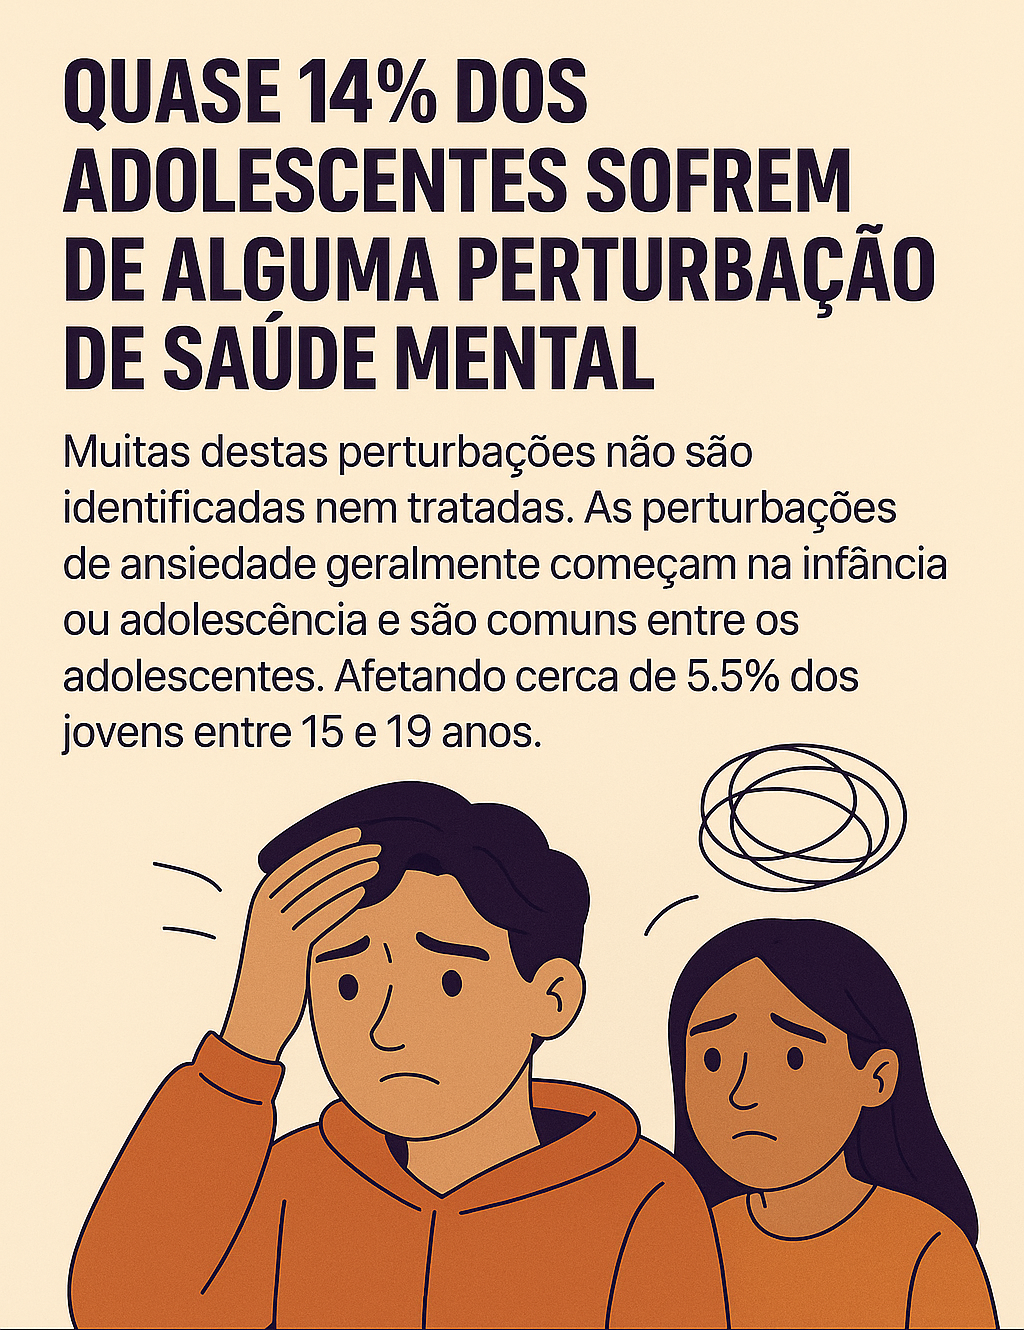
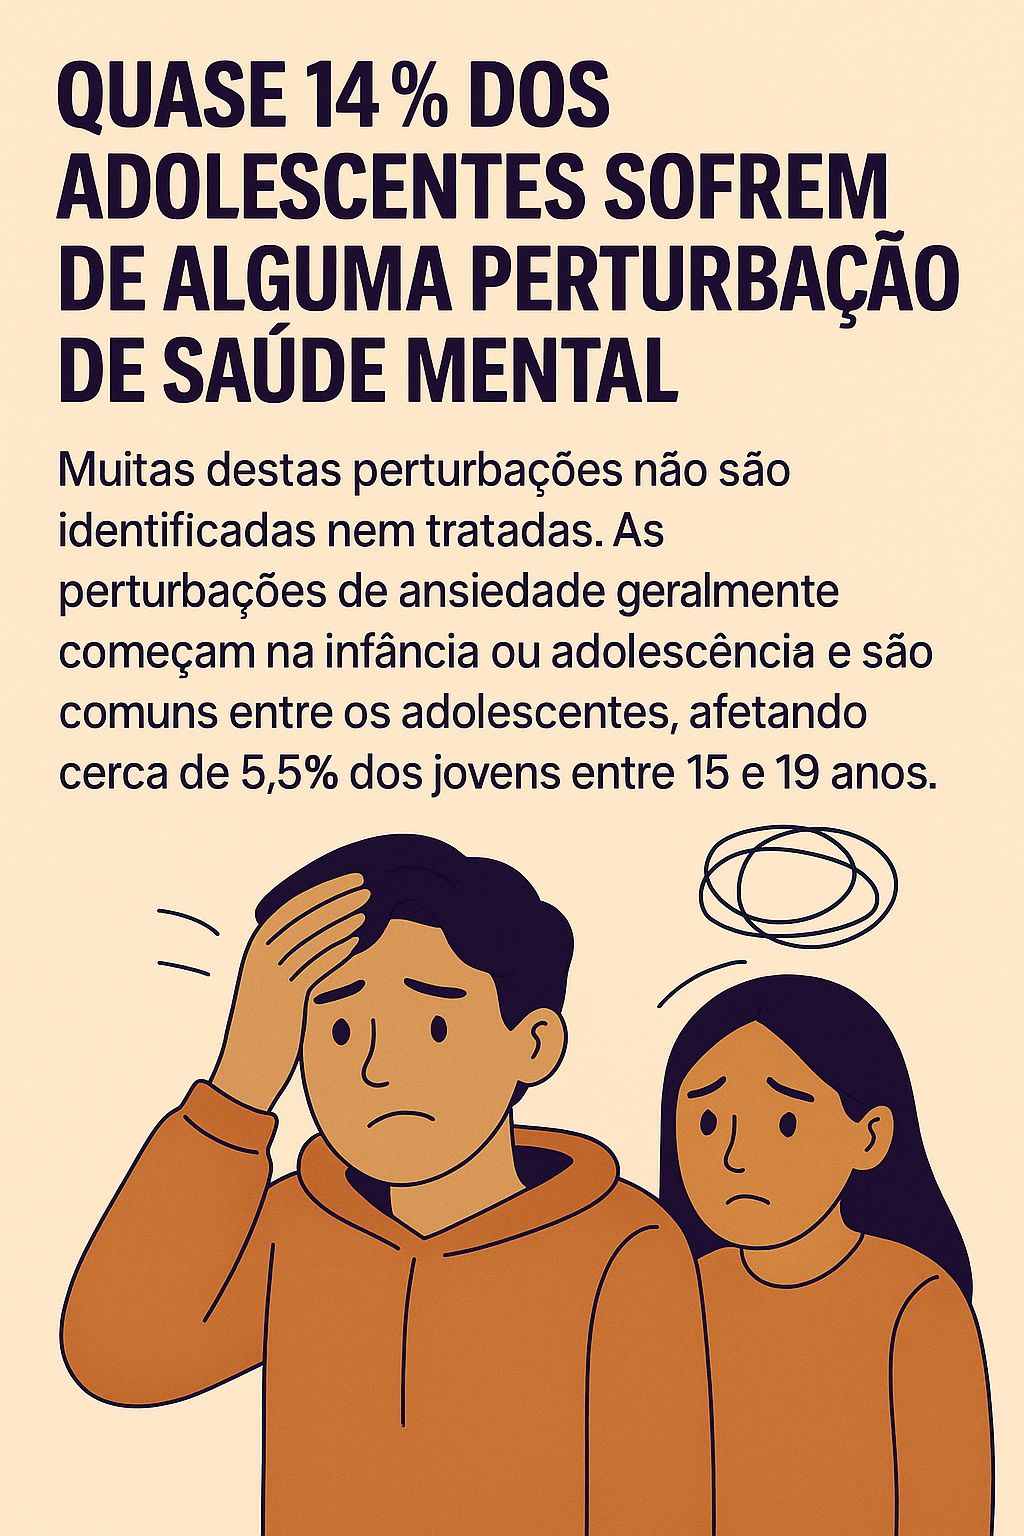
Alteracao das atividades do modulo 1

diff --git a/src/components/atividades/modulo1/ansiedadeSemFiltros.js b/src/components/atividades/modulo1/ansiedadeSemFiltros.js
@@ -47,18 +47,18 @@ const AnsiedadeSemFiltros = () => {
   };
 
   const descricoesImagem = {
-    1: "Quase 14% dos adolescentes sofrem de alguma perturbação de saúde mental. Muitas destas perturbações não são identificadas nem tratadas. As perturbações de ansiedade geralmente começam na infância ou adolescência e são comuns entre os adolescentes. Afetando cerca de 5.5% dos jovens entre 15 e 19 anos.",
-    2: "Ansiedade na adolecência. Ter ansiedade na adolescência pode aumentar a probabilidade de continuar a sentir ansiedade. na vida adulta, além de outras dificultades, como o consumo de álcool ou drogas a a depressão. Também pode afetar a tua saúde, o bem-estar e o desempenho escolar. Por isso, é importante reconhecer os sinais de ansiedade e procurar ajuda o mais cedo possivel, para prevenir consequências no futuro.",
+    1: "Quase 14% dos adolescentes sofrem de alguma perturbação de saúde mental. Muitas destas perturbações não são identificadas nem tratadas. As perturbações de ansiedade geralmente começam na infância ou adolescência e são comuns entre os adolescentes, afetando cerca de 5.5% dos jovens entre 15 e 19 anos.",
+    2: "Ansiedade na adolecência. Sentir ansiedade na adolescência pode aumentar a probabilidade de continuar a sentir ansiedade na vida adulta, além de outras dificultades, como o consumo de álcool ou drogas a a depressão. Também pode afetar a tua saúde, o bem-estar e o desempenho escolar. Por isso, é importante reconhecer os sinais de ansiedade e procurar ajuda o mais cedo possivel.",
     3: "Muitos adolescentes ainda tem alguma dificuldade em pedir ajuda. Uma das razões para isso é que nem sempre é fácil perceber que aquilo que se está a sentir pode ser um problema de saúde mental. Por vezes, falta informação e, por isso, alguns adolescentes não reconhecem a gravidade da situação ou nem identificam o que sentem como um problema de saúde mental. Além disso, é comum muitos preferirem lidar com as dificuldades sozinhos, em vez de pedirem ajuda a alguém.",
     4: "Quando a ansiedade se torna um problema. A ansiedade faz parte das nossas vidas e é útil, ajudando-nos a preparar para desafios ou situações novas. Mas quando é demasiado intensa, prolongada no tempo e interfere com o dia a dia, pode tratar-se de uma perturbação de ansiedade.",
-    5: "As perturbações de ansiedade. Fobia específica. Medo, ansiedade ou evitamento persistente perante certos objetos ou situações (como animais, alturas, agulhas...). O medo é desproporcional e pode levar a evitar essas situações.",
-    6: "As perturbações de ansiedade. Perturbação de ansiedade social. Medo intenso de situações sociais ou de desempenho, como falar em público ou interagir com desconhecidos, por receio de ser julgado.",
-    7: "As perturbações de ansiedade. Perturbação de pânico. Ataques de pânico inesperados e recorrentes - episódios de medo muito intenso com sintomas como batimentos cardíacos acelerados, falta de ar, tonturas.",
-    8: "As perturbações de ansiedade. Perturbação de ansiedade generalisada. Ansiedade e preocupação excessivas, persistentes e difíceis de controlar em vários contextos (como escola, saúde, família), mesmo quando não há razão clara.",
-    9: "As perturbações de ansiedade. Perturbação de ansiedade de separação. Medo ou ansiedade excessivos perante a separação de figuras importantes (como os pais), que não corresponde à idade ou fase de desenvolvimento.",
-    10:"As perturbações de ansiedade. Agrofobia. Medo ou ansiedade de estar em locais ou situações das quais pode ser difícil sair ou onde possa não haver ajuda em caso de mal-estar (como transportes públicos, espaços abertos ou multidões).",
-    11:"As perturbações de ansiedade. Perturbação obsessivo-compulsiva. Presença de pensamentos ou imagens indesejadas e repetitivas e/ou comportamentos repetitivos que a pessoa sente que tem de fazer para aliviar a ansiedade.",
-    12:"As perturbações de ansiedade. Perturbação de stress pós-traumático.Ansiedade intensa depois de viver ou presenciar um acontecimento traumático. Pode incluir reviver o trauma, evitar tudo o que o relembre, sentir-se em constante alerta ou alterações de humor."
+    5: "As perturbações de ansiedade. Fobia específica: Medo, ansiedade ou evitamento persistente perante certos objetos ou situações (como animais, alturas, agulhas...). O medo é desproporcional e pode levar a evitar essas situações.",
+    6: "As perturbações de ansiedade. Perturbação de ansiedade social: Medo intenso e persistente de situações sociais ou de desempenho, como falar em público ou interagir com desconhecidos, por receio de ser julgado.",
+    7: "As perturbações de ansiedade. Perturbação de pânico: Ataques de pânico inesperados e recorrentes - episódios de medo muito intenso com sintomas como batimentos cardíacos acelerados, falta de ar, tonturas.",
+    8: "As perturbações de ansiedade. Perturbação de ansiedade generalisada: Ansiedade e preocupação excessivas, persistentes e difíceis de controlar em vários contextos (como escola, saúde, família), mesmo quando não há razão clara.",
+    9: "As perturbações de ansiedade. Perturbação de ansiedade de separação: Medo ou ansiedade excessivos perante a separação de figuras importantes (como os pais), que não corresponde à idade ou fase de desenvolvimento.",
+    10:"As perturbações de ansiedade. Agrofobia: Medo ou ansiedade de estar em locais ou situações das quais pode ser difícil sair ou onde possa não haver ajuda em caso de mal-estar (como transportes públicos, espaços abertos ou multidões).",
+    11:"As perturbações de ansiedade. Perturbação obsessivo-compulsiva: Presença de pensamentos ou imagens indesejadas e repetitivas e/ou comportamentos repetitivos que a pessoa sente que tem de fazer para aliviar a ansiedade.",
+    12:"As perturbações de ansiedade. Perturbação de stress pós-traumático: Ansiedade intensa depois de viver ou presenciar um acontecimento traumático. Pode incluir reviver o trauma, evitar tudo o que o relembre, sentir-se em constante alerta ou alterações de humor."
   };
 
   return (
@@ -85,20 +85,19 @@ const AnsiedadeSemFiltros = () => {
 
             {/* INTRODUÇÃO */}
             {pagina === 0 && (
-              <div className="text-start py-4">
+              <div className="text-center">
                 <h2 className="fw-bold mb-4" style={{ color: "#234970" }}>
                   {atividade?.titulo || "Ansiedade: Aliada ou Empecilho?"}
                 </h2>
                 <div className="row">
                   <div className="col-md-12">
                     <p className="lead">
-                      <strong>Sê muito bem-vindo ou bem-vinda ao Ansiedade Sem Filtros.</strong><br /><br />
+                      <strong>Sê muito bem-vindo/a ao Ansiedade Sem Filtros.</strong><br /><br />
                       Nesta <strong>atividade</strong>, vais ver uma <strong>sequência de imagens</strong> com informações
-                      sobre a <strong>ansiedade na adolescência</strong> — como aparece, o <strong>impacto</strong> que pode ter e porque
+                      sobre a <strong>ansiedade na adolescência</strong> — como aparece, o impacto que pode ter e porque
                       é tão importante falarmos sobre isto.<br /><br />
-                      Imagina que estás a fazer <strong>scroll no Instagram</strong> e deste de caras com um post sobre este tema. Lê cada imagem com <strong>atenção</strong> e, no final, reage com um <strong>hashtag</strong> que mostre o que sentiste ao ver aquela informação.<br />
-                      Podes escrever <strong>qualquer hashtag</strong> — algo que sintas, penses ou te venha à cabeça naquele momento.<br /><br />
-                      O <strong>objetivo</strong> é parares um instante e <strong>refletires</strong> sobre o que estás a ver e como isso te <strong>faz sentir</strong>.
+                      Imagina que estás a fazer <strong>scroll no Instagram</strong> e deste de caras com um post sobre este tema. Lê cada imagem com <strong>atenção</strong> e escrever <strong>um hashtag</strong> sobre a tua opinião acerca dessa informação.<br /><br />
+                      O <strong>objetivo</strong> é parares um instante e <strong>refletires</strong> sobre o que estás a ler e como isso te <strong>faz sentir</strong>.
                     </p>
                     <div className="text-center">
                       <button
@@ -118,8 +117,9 @@ const AnsiedadeSemFiltros = () => {
             {/* 12 IMAGENS COM HASHTAG INPUTS */}
             {pagina > 0 && pagina <= 12 && (
               <>
+               <div className="text-center"></div>
                 <h4 className="fw-bold mb-3" style={{ color: "#234970" }}>
-                  Imagem {pagina} de 12
+                  Lê cada imagem com atenção e escrever um hashtag sobre a tua opinião acerca dessa informação.
                 </h4>
                 <div className="text-center mb-4">
                   <div className="mb-3">
@@ -128,11 +128,7 @@ const AnsiedadeSemFiltros = () => {
                       alt={`Imagem ${pagina} sobre ansiedade`} // breve
                       aria-describedby={`descricao-imagem-${pagina}`}
                       className="img-fluid rounded"
-                      style={{
-                        maxWidth: "100%",
-                        maxHeight: "400px",
-                        objectFit: "contain"
-                      }}
+                      style={{ maxWidth: "100%", objectFit: "contain" }}
                       onError={(e) => {
                         e.target.style.display = 'none';
                         e.target.nextSibling.style.display = 'flex';
@@ -165,7 +161,7 @@ const AnsiedadeSemFiltros = () => {
                         border: '1px solid #99CBC8',
                         borderLeft: 'none'
                       }}
-                      placeholder="hashtag"
+                      placeholder="Escreve aqui o # para esta imagem"
                       value={hashtags[pagina - 1]}
                       onChange={(e) => handleHashtagChange(pagina - 1, e.target.value)}
                       onKeyDown={(e) => {
@@ -198,9 +194,9 @@ const AnsiedadeSemFiltros = () => {
                   <button
                     className="custom-btn-turquoise"
                     onClick={avancarPagina}
-                    aria-label={pagina === 12 ? "Ver reflexão final" : "Avançar para a próxima imagem"}
+                    aria-label={pagina === 12 ? "Conclusão" : "Avançar para a próxima imagem"}
                   >
-                    {pagina === 12 ? "Ver reflexão" : "Próximo"}
+                    {pagina === 12 ? "Conclusão" : "Próximo"}
                     <i className="bi bi-arrow-right ms-2" aria-hidden="true"></i>
                   </button>
                 </div>
@@ -210,20 +206,20 @@ const AnsiedadeSemFiltros = () => {
             {/* CONCLUSÃO */}
             {pagina === 13 && (
               <>
+               <div className="text-center"></div>
                 <h4 className="fw-bold mb-4" style={{ color: "#234970" }}>
                   Conclusão da Atividade
                 </h4>
                 <p className="lead">
-                  Agora que refletiste sobre as imagens e reagiste com <strong>hashtags</strong>, percebeste que a <strong>ansiedade</strong> não é algo <strong>isolado</strong>. Pelo
-                  contrário, afeta muitos <strong>jovens</strong> e pode, por vezes, ser um <strong>problema maior</strong> do que parece.<br /><br />
-                  Ao longo das imagens, <strong>exploraste</strong> como a ansiedade pode <strong>surgir</strong>, como ela pode <strong>persistir</strong> ao longo do
-                  tempo e os <strong>desafios</strong> que traz a muitos adolescentes.<br /><br />
-                  Ao mesmo tempo, <strong>aprendeste</strong> que a ansiedade não é um problema que deva ser <strong>ignorado</strong>, mas sim <strong>reconhecido</strong> e <strong>cuidado</strong>,
-                  para evitar consequências mais graves no futuro.<br /><br />
-                  A informação que partilhaste através dos hashtags ajuda-te a entender e expressar as diferentes <strong>emoções</strong> que sentiste ao aprender sobre as diversas
-                  formas de ansiedade e como elas afetam o nosso <strong>bem-estar</strong>, a nossa <strong>saúde mental</strong> e o nosso <strong>futuro</strong>.<br /><br />
-                  Lembra-te que <strong>falar</strong> sobre isso é <strong>fundamental</strong> para lidar com os desafios da saúde mental.
-                </p>
+                 Agora que refletiste sobre as imagens, percebeste que a <strong>ansiedade</strong> não é algo <strong>que acontece apenas a alguns</strong>, mas <strong>afeta muitos jovens</strong> e pode ser <strong>mais intensa</strong> do que à primeira vista parece.
+                 <br /><br />
+                  Nas diferentes imagens, <strong>exploraste</strong> como a ansiedade <strong>surge</strong>, <strong>persiste</strong> ao longo do tempo e os <strong>desafios</strong> que acarreta.
+                   <br /><br />
+                 Aprendeste também que a ansiedade não deve ser <strong>ignorada</strong>, mas sim <strong>reconhecida</strong> atempadamente, não só para prevenir <strong>consequências mais graves</strong> no futuro, mas porque influencia o <strong>bem-estar</strong>.
+                <br /><br />
+                 Lembra-te: <strong>falar</strong> sobre ansiedade <strong>é o primeiro passo para a compreender</strong> e para lidar da melhor forma com os seus desafios.
+              </p>
+
                 <div className="d-flex justify-content-between mt-4">
                   <button
                     className="custom-btn-pink"

diff --git a/src/components/atividades/modulo1/bandaDesenhada.js b/src/components/atividades/modulo1/bandaDesenhada.js
@@ -91,8 +91,8 @@ const BandaDesenhada = () => {
                <div className="row ">
                   <div className="col-md-12">
                     <p className="lead mb-3">
-                   O teu <strong>desafio</strong> é compreender a diferença entre estas duas formas de ansiedade. <br></br><br></br>
-                   Para isso, <strong>lê com atenção</strong> os quadros da banda desenhada que se seguem. <br></br><br></br>
+                   O teu <strong>desafio</strong> é compreender a diferença entre estas duas formas de ansiedade. <br>
+                   Para isso, <strong>lê com atenção</strong> os quadros da banda desenhada que se seguem. </br>
                    </p>
                     
              <div className="text-center">
@@ -145,6 +145,7 @@ const BandaDesenhada = () => {
             {/* REFLEXÃO */}
             {pagina === quadros.length + 1 && (
               <>
+               <div className="text-center"></div>
                 <h4 className="text-center" style={{ color: "#234970" }}>Vamos Refletir!</h4>
 
                 {inputError && (
@@ -234,6 +235,7 @@ const BandaDesenhada = () => {
             {/* CONCLUSÃO */}
             {pagina === quadros.length + 2 && (
               <>
+               <div className="text-center"></div>
                 <h4 className="text-center" style={{ color: "#234970" }}>
                   Conclusão da Atividade
                 </h4>
